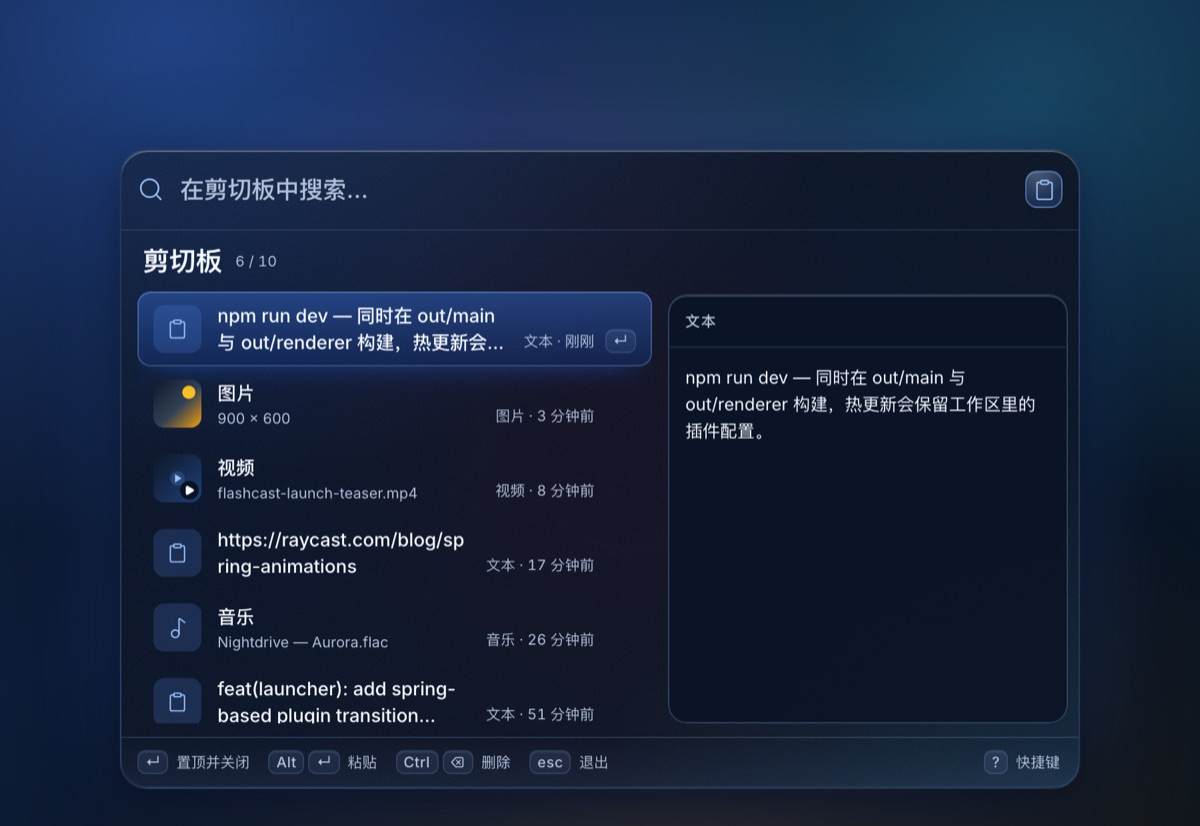
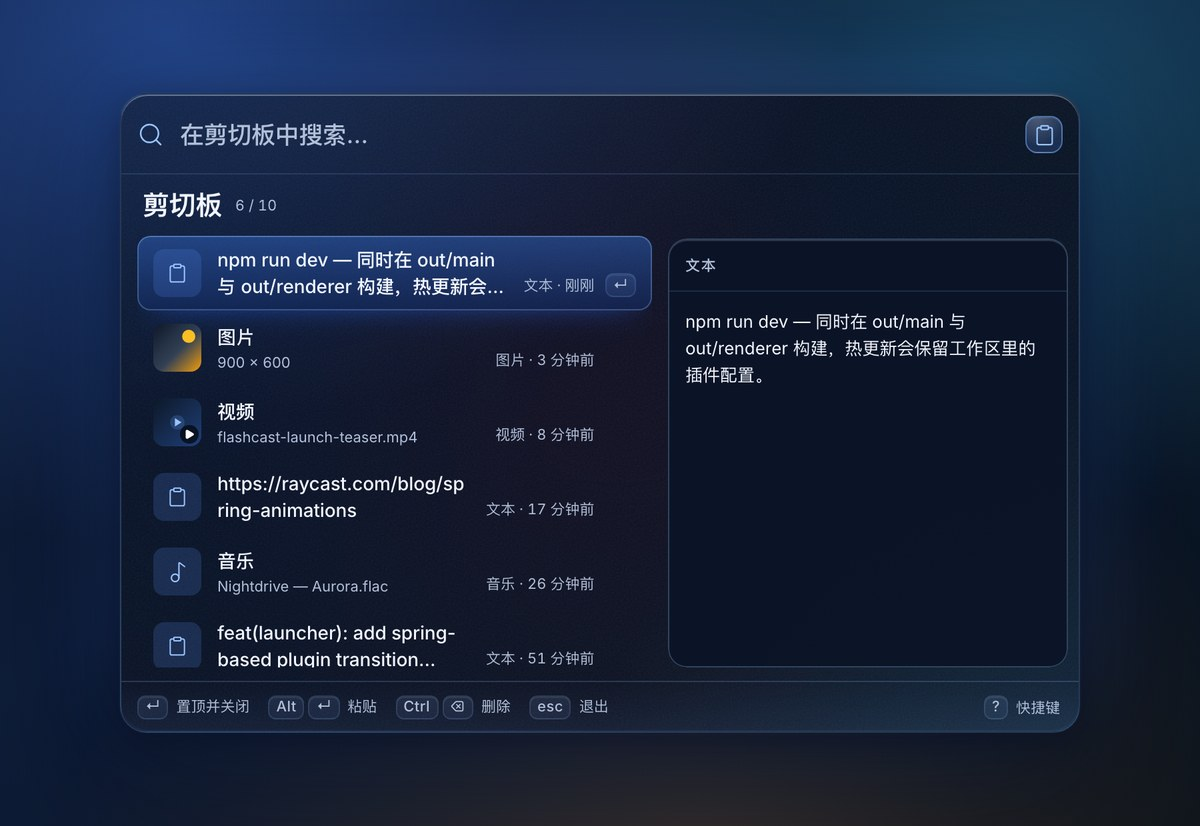
fix(launcher): 面板改为在工作区水平垂直居中
此前面板通过 `top: min(18vh, 160px)` 贴在工作区顶部：在 1440 高的显示器上
距顶只有 160px（约 11%），视觉重心明显偏上，呼出时看起来并不居中。

- `.fc-panel-anchor` 改为 `top/left: 50%` + `translate(-50%, -50%)`，以
  720×480 的面板盒在鼠标所在屏的 `workArea` 内水平、垂直居中；入场动画仍从
  盒顶向下生长，搜索框在动画期间不位移。
- 同步更新界面规范与实现说明里的定位描述，并按新位置重新生成 README 截图。

验证：预览渲染器在 1200×826、1440×900、1920×1080、1280×720 下，面板盒
中心与视口中心完全一致；typecheck、199 个单测、electron-vite 构建均通过。

diff --git a/src/renderer/src/styles/launcher.css b/src/renderer/src/styles/launcher.css
@@ -18,11 +18,14 @@
 .fc-panel-anchor {
   --fc-panel-height: min(480px, calc(100vh - 48px));
   position: absolute;
-  top: min(18vh, 160px);
+  /* The anchor is the full-size panel box (720×480); centering it centers the
+     open panel on the active display. The shell keeps growing from the anchor's
+     top edge, so the search bar does not move during the entrance animation. */
+  top: 50%;
   left: 50%;
   width: min(720px, calc(100vw - 40px));
   height: var(--fc-panel-height);
-  transform: translateX(-50%);
+  transform: translate(-50%, -50%);
 }
 
 .fc-panel {

diff --git a/docs/implementation.md b/docs/implementation.md
@@ -68,7 +68,7 @@ src/shared/
 ### 3.1 启动与窗口
 
 1. `app.requestSingleInstanceLock()` 保证只有一条常驻进程；第二次启动唤起已有实例。
-2. 启动器是**全屏透明、无边框、置顶、跳过任务栏**的窗口，面板本身固定 720×480，由 `.fc-panel-anchor` 居中并通过 `top: min(18vh, 160px)` 定位。窗口 bounds 使用当前鼠标所在显示器的 `workArea`，避免超出工作区。
+2. 启动器是**全屏透明、无边框、置顶、跳过任务栏**的窗口，面板本身固定 720×480，由 `.fc-panel-anchor` 以 `top/left: 50%` + `translate(-50%, -50%)` 在工作区内水平、垂直居中（`--fc-panel-height` 兜底 `100vh - 48px`）。窗口 bounds 使用当前鼠标所在显示器的 `workArea`，避免超出工作区。
 3. 显示时重新定位到鼠标所在屏，`show()` + `focus()`。macOS 会在 `show()` 时把铺满工作区的窗口整体平移（实测 x 从 0 变成 218），面板是相对窗口视口居中的，因此 `show()` 之后必须再 `setBounds()` 一次，否则每次呼出都不居中。
 4. 窗口失焦 100ms 后请求关闭动画；关闭动画由渲染进程用 WAAPI 播放（180ms），完成后调用 `launcher:hide`，主进程 `hide()`。主进程还有 420ms 兜底定时器。
 5. 打开设置窗口时启动器失焦自动收起；设置窗口独立 920×640。

diff --git a/docs/ui-ux.md b/docs/ui-ux.md
@@ -179,7 +179,7 @@
 | 项 | 规格 |
 |---|---|
 | 尺寸 | `720 × 480`，最小 `640 × 400` |
-| 位置 | 当前显示器水平居中，距工作区顶部 18%（最高不超过 160px） |
+| 位置 | 当前显示器工作区内水平、垂直居中（720×480 的面板盒居中，入场只从盒顶向下生长） |
 | 层级 | 置顶、跨工作区显示、任务栏/Dock 隐藏、无标题栏 |
 | 圆角 | 18px，Windows 11 取系统圆角上限 |
 | 背景 | 半透明蓝色毛玻璃 + 1px 冷色描边 + 内部光源 |
